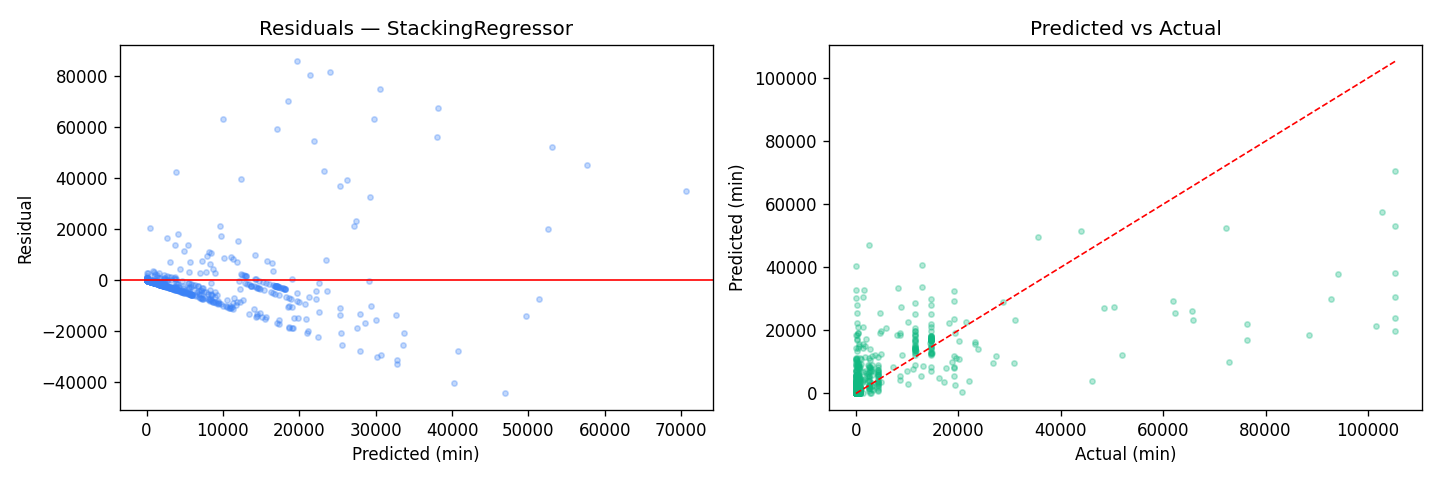
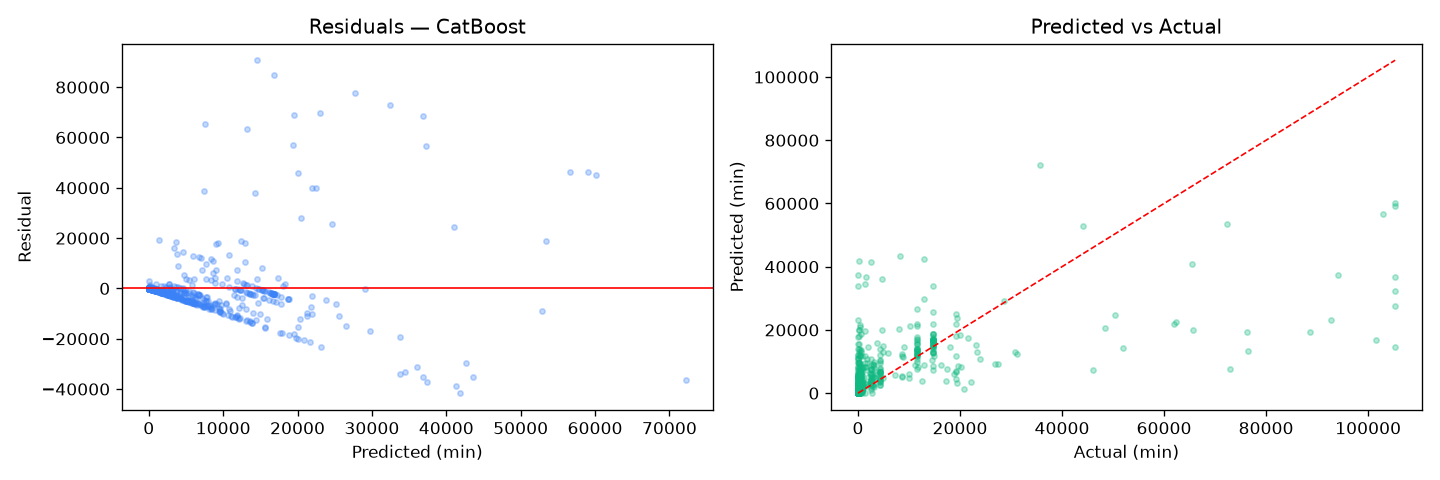
Update regression models and database

diff --git a/src/train_regression.py b/src/train_regression.py
@@ -48,10 +48,6 @@ def evaluate_reg(model, X_test, y_test, name: str) -> dict:
 
 def build_regressors(seed: int = 42):
     return {
-        "RandomForest": RandomForestRegressor(
-            n_estimators=300, random_state=seed, n_jobs=-1),
-        "ExtraTrees": ExtraTreesRegressor(
-            n_estimators=300, random_state=seed, n_jobs=-1),
         "GradientBoosting": GradientBoostingRegressor(
             n_estimators=200, max_depth=5, learning_rate=0.05,
             random_state=seed),
@@ -109,21 +105,6 @@ def run_regression_training(X: pd.DataFrame, Y: pd.DataFrame,
             trained[name] = reg
         except Exception as e:
             log.warning(f"  {name} failed: {e}")
-
-    # Stacking Regressor
-    top3 = sorted(results, key=lambda k: results[k].get("R2", -999), reverse=True)[:3]
-    log.info(f"Top-3 for stacking: {top3}")
-    try:
-        stacker = StackingRegressor(
-            estimators=[(n, trained[n]) for n in top3],
-            final_estimator=Ridge(alpha=1.0),
-            passthrough=True, n_jobs=-1)
-        stacker.fit(X_train, y_train)
-        m = evaluate_reg(stacker, X_val, y_val, "duration/StackingRegressor/val")
-        results["StackingRegressor"] = m
-        trained["StackingRegressor"] = stacker
-    except Exception as e:
-        log.warning(f"StackingRegressor failed: {e}")
 
     best_name = max(results, key=lambda k: results[k].get("R2", -999))
     best_reg  = trained[best_name]

diff --git a/backend/database.py b/backend/database.py
@@ -16,7 +16,13 @@ if SQLALCHEMY_DATABASE_URL.startswith("sqlite"):
 else:
     if SQLALCHEMY_DATABASE_URL.startswith("postgres://"):
         SQLALCHEMY_DATABASE_URL = SQLALCHEMY_DATABASE_URL.replace("postgres://", "postgresql://", 1)
-    engine = create_engine(SQLALCHEMY_DATABASE_URL)
+    engine = create_engine(
+        SQLALCHEMY_DATABASE_URL,
+        pool_pre_ping=True,
+        pool_recycle=300,
+        pool_size=10,
+        max_overflow=20
+    )
 
 SessionLocal = sessionmaker(autocommit=False, autoflush=False, bind=engine)
 